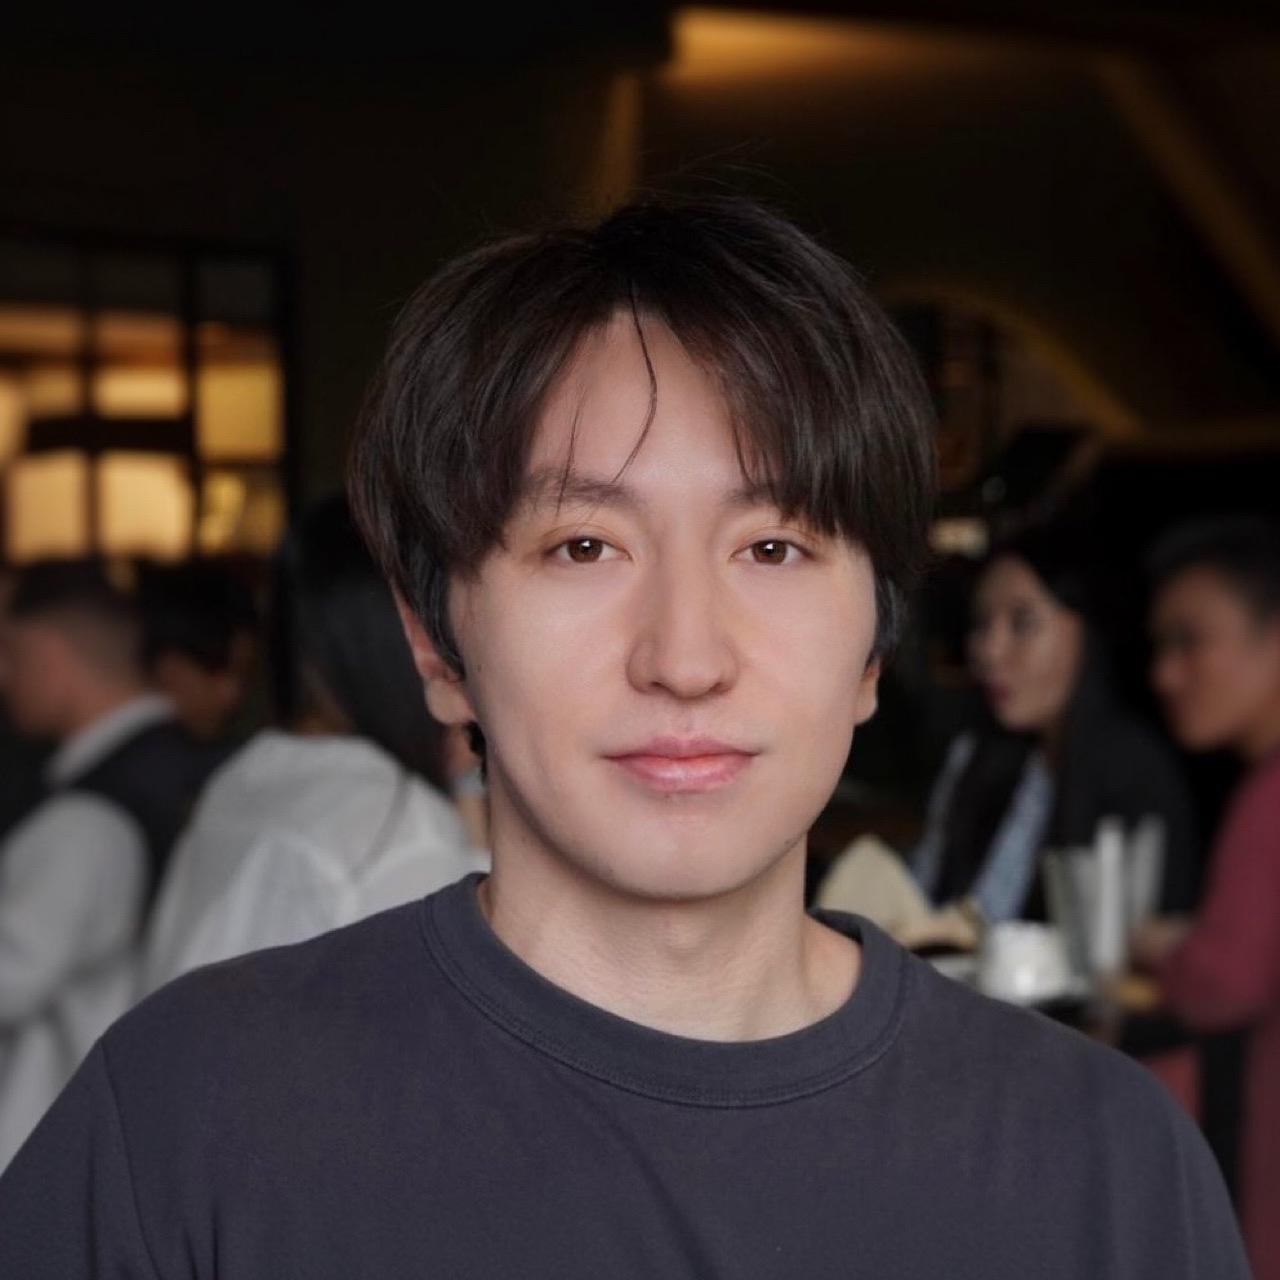
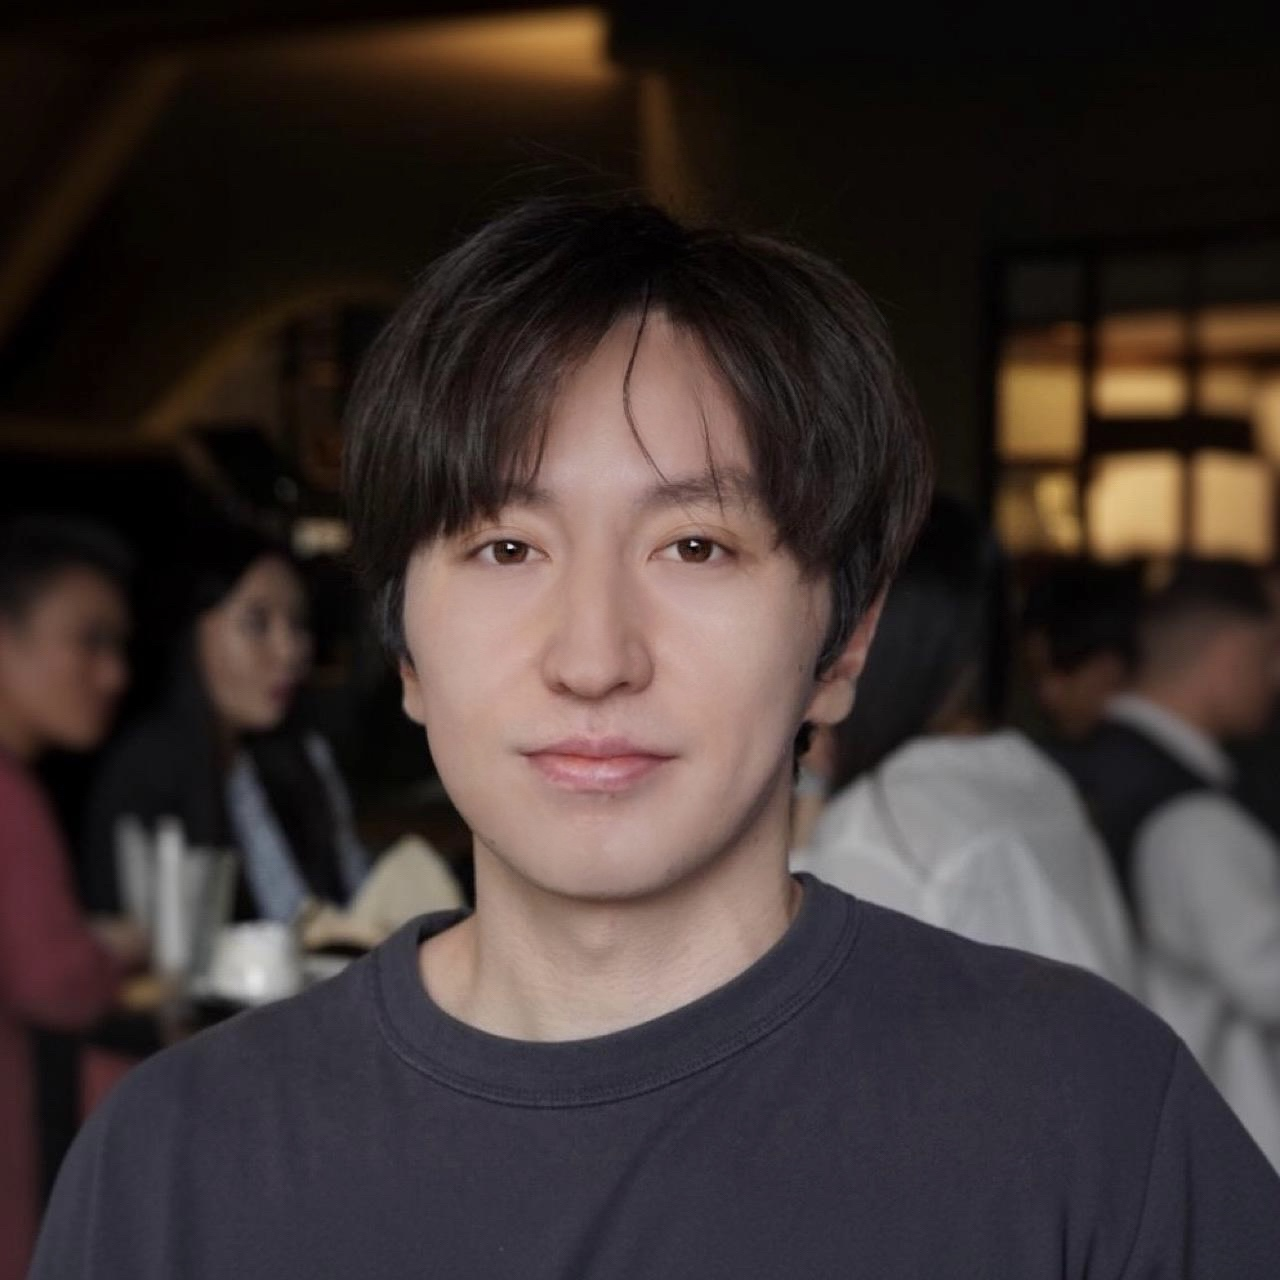
update: experience page

diff --git a/src/components/Experience.tsx b/src/components/Experience.tsx
@@ -1,8 +1,85 @@
 import React from 'react'
+import { Timeline } from './ui/timeline'
 
 const Experience = () => {
+  const data = [
+    {
+      title: "Apr. 2023 - Present",
+      content: (
+        <div>
+          <h2 className="md:block text-lg md:text-2xl font-bold ">
+            Full-Stack Developer, @SPOCLIP AI
+          </h2>
+          <ul className={"list-disc list-inside text-xs md:text-sm font-normal mt-8"}>
+            <li className='mb-4'>
+              Led cross-functional teams in building AI-driven applications from scratch, improving operational efficiency by up to 74%
+              through performance optimizations.
+            </li>
+            <li className='mb-4'>
+              Independently managed full-stack development projects, integrating advanced AI models which resulted in successful
+              product launches and a growing base of paying customers.
+            </li>
+            <li className='mb-4'>
+              Collaborated on cutting-edge mobile solutions that enhanced client services, supporting daily usage by over 100 users,
+              and significantly improving user experience and safety measures.
+            </li>
+          </ul>
+        </div>
+      ),
+    },
+    {
+      title: "Sep. 2020 - Mar. 2023",
+      content: (
+        <div>
+          <h2 className="md:block text-lg md:text-2xl font-bold">
+            Research Assistant, @UNIST
+          </h2>
+          <ul className={"list-disc list-inside text-xs md:text-sm font-normal mt-8"}>
+            <li className='mb-4'>
+              Conducted cutting-edge research on neural network accelerators and quantization techniques, aiming to optimize AI
+              hardware for better performance and efficiency.
+            </li>
+            <li className='mb-4'>
+              Authored and co-authored 5 peer-reviewed papers in prestigious journals and conferences, including IEEE Transactions
+              on Computer-Aided Design of Integrated Circuits and Systems (TCAD) and the International Conference on
+              Computer-Aided Design (ICCAD).
+            </li>
+            <li className='mb-4'>
+              Developed novel quantization methods that reduced ADC size in ReRAM-based neural network accelerators by up to
+              56.25%, significantly enhancing computational efficiency and enabling deployment in extremely resource-constrained
+              applications.
+            </li>
+          </ul>
+        </div>
+      ),
+    },
+    {
+      title: "Jul. 2019 – Aug. 2019",
+      content: (
+        <div>
+          <h2 className="md:block text-lg md:text-2xl font-bold ">
+          Software Engineer Intern, @QULIX SYSTEMS
+          </h2>
+          <ul className={"list-disc list-inside text-xs md:text-sm font-normal mt-8"}>
+            <li className='mb-4'>
+            Created a comprehensive student course registration system from scratch, streamlining the enrollment process for both
+            students and faculty.
+            </li>
+            <li className='mb-4'>
+              Acquired and applied skills in Java Servlets, JSP, Maven, and MySQL for dynamic web content generation and robust
+              server-side programming.
+            </li>
+          </ul>
+        </div>
+      ),
+    },
+  ];
+
   return (
-    <div>Experience</div>
+    <div>
+      <div>EXPERIENCE</div>
+      <Timeline data={data} />
+    </div>
   )
 }
 

diff --git a/src/components/ui/timeline.tsx b/src/components/ui/timeline.tsx
@@ -1,0 +1,102 @@
+"use client";
+import {
+  useMotionValueEvent,
+  useScroll,
+  useTransform,
+  motion,
+} from "framer-motion";
+import React, { useEffect, useRef, useState } from "react";
+
+interface TimelineEntry {
+  title: string;
+  content: React.ReactNode;
+}
+
+export const Timeline = ({ data }: { data: TimelineEntry[] }) => {
+    const ref = useRef<HTMLDivElement>(null);
+    // const divRef = useRef(null);
+    const containerRef = useRef<HTMLDivElement>(null);
+    const [height, setHeight] = useState(0);
+
+    useEffect(() => {
+        if (ref.current) {
+            const rect = ref.current.getBoundingClientRect();
+            setHeight(rect.height);
+        }
+
+        console.log('height', ref)
+    }, [ref]);
+
+    useEffect(() => {
+        const observer = new ResizeObserver((entries) => {
+        for (let entry of entries) {
+            setHeight(entry.contentRect.height);
+        }
+        });
+
+        if (containerRef.current) {
+            observer.observe(containerRef.current);
+        }
+
+        return () => {
+        if (containerRef.current) {
+            observer.unobserve(containerRef.current);
+        }
+        };
+    }, []);
+
+
+    const { scrollYProgress } = useScroll({
+        target: containerRef,
+        offset: ["start 10%", "end 50%"],
+    });
+
+    const heightTransform = useTransform(scrollYProgress, [0, 1], [0, height]);
+    const opacityTransform = useTransform(scrollYProgress, [0, 0.1], [0, 1]);
+
+    return (
+        <div
+        className="w-full font-sans md:px-10"
+        ref={containerRef}
+        >
+        <div ref={ref} className="relative max-w-7xl mx-auto pb-20">
+            {data.map((item, index) => (
+            <div
+                key={index}
+                className="flex justify-start pt-10 md:pt-40 md:gap-10"
+            >
+                <div className="sticky flex flex-col md:flex-row z-40 items-center top-40 self-start max-w-xs lg:max-w-sm md:w-full">
+                <div className="h-10 absolute left-3 md:left-3 w-10 rounded-full flex items-center justify-center">
+                    <div className="h-4 w-4 rounded-full bg-neutral-800 border border-neutral-700 p-2" />
+                </div>
+                <h3 className="hidden md:block text-lg md:pl-20 md:text-2xl font-bold text-neutral-500 ">
+                    {item.title}
+                </h3>
+                </div>
+
+                <div className="relative pl-20 pr-4 md:pl-4 w-full">
+                <h3 className="md:hidden block text-2xl mb-4 text-left font-bold text-neutral-500">
+                    {item.title}
+                </h3>
+                {item.content}{" "}
+                </div>
+            </div>
+            ))}
+            <div
+            style={{
+                height: height + "px",
+            }}
+            className="absolute md:left-8 left-8 top-0 overflow-hidden w-[2px] bg-neutral-200  "
+            >
+            <motion.div
+                style={{
+                height: heightTransform,
+                opacity: opacityTransform,
+                }}
+                className="absolute inset-x-0 top-0  w-[2px] bg-gradient-to-t from-black via-black-100 to-transparent from-[0%] via-[10%] rounded-full"
+            />
+            </div>
+        </div>
+        </div>
+    );
+};

diff --git a/tailwind.config.ts b/tailwind.config.ts
@@ -9,8 +9,20 @@ const config: Config = {
   theme: {
     extend: {
       colors: {
-        background: "var(--background)",
-        foreground: "var(--foreground)",
+        black: {
+          DEFAULT: "#000",
+          100: "#212529",
+          200: "rgba(17, 25, 40, 0.75)",
+          300: "rgba(255, 255, 255, 0.125)",
+        },
+        white: {
+          DEFAULT: "#FFF",
+          100: "#BEC1DD",
+          200: "#C1C2D3",
+        },
+        blue: {
+          "100": "#E4ECFF",
+        },
       },
     },
   },

diff --git a/src/components/About.tsx b/src/components/About.tsx
@@ -17,8 +17,7 @@ const About = () => {
         </div>
         <div className="w-[calc((100vw)/2)] h-[calc((100vw)/2)] md:w-1/3 md:h-[calc((100vw-64px)/3)] relative">
           <Image
-            // src={'/profile.JPG'}
-            src={'/avatarrr.jpg'}
+            src={'/avatarr.jpg'}
             alt="Picture of the author"
             layout="fill" // required
             objectFit="cover" // change to suit your needs

diff --git a/src/components/ui/flip-words.tsx b/src/components/ui/flip-words.tsx
@@ -1,6 +1,6 @@
 "use client";
 import React, { useCallback, useEffect, useState } from "react";
-import { AnimatePresence, motion, LayoutGroup } from "framer-motion";
+import { AnimatePresence, motion } from "framer-motion";
 import { cn } from "@/lib/utils";
 
 export const FlipWords = ({

diff --git a/src/data/index.ts b/src/data/index.ts
@@ -1,0 +1,7 @@
+export const experienceData = [
+
+    {
+        date: "Apr. 2023 - Present",
+        position: "Full-Stack Developer, SPOCLIP &copy;AI"
+    }
+];
